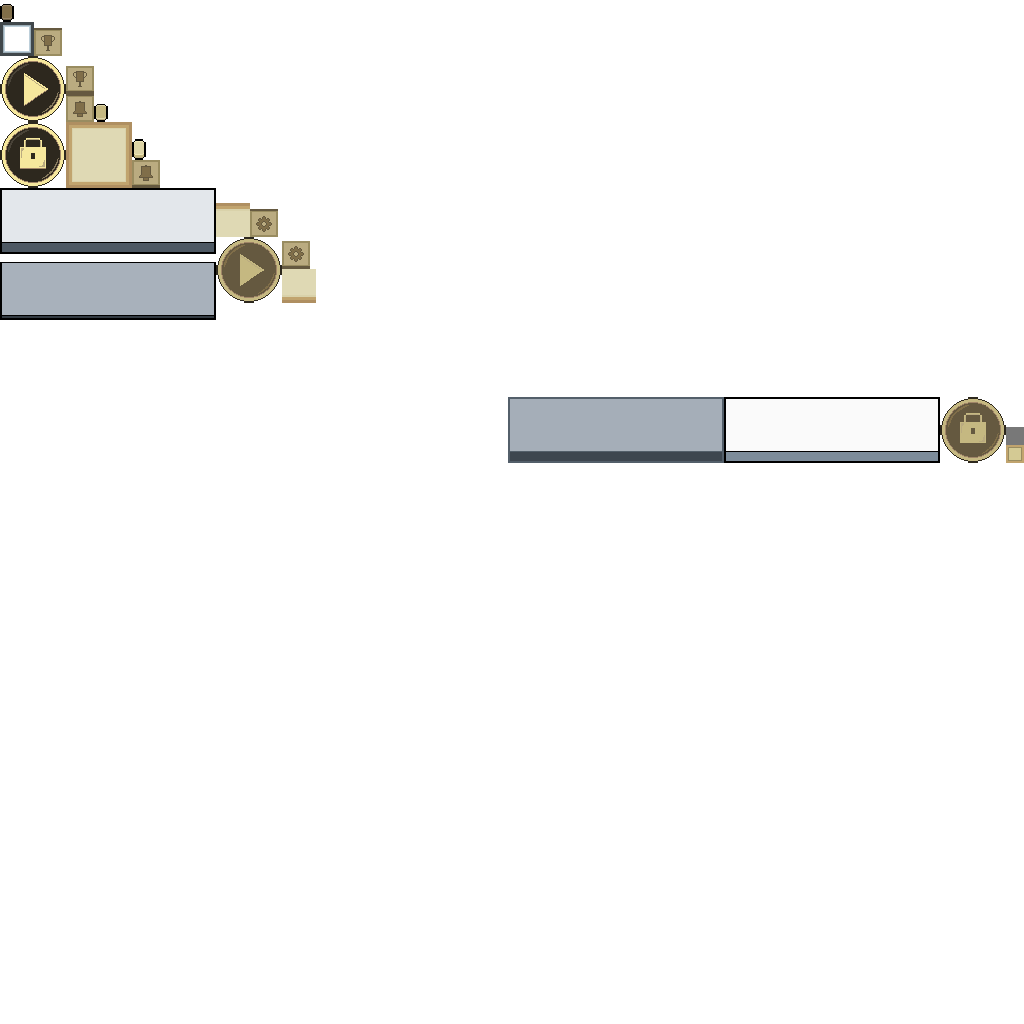
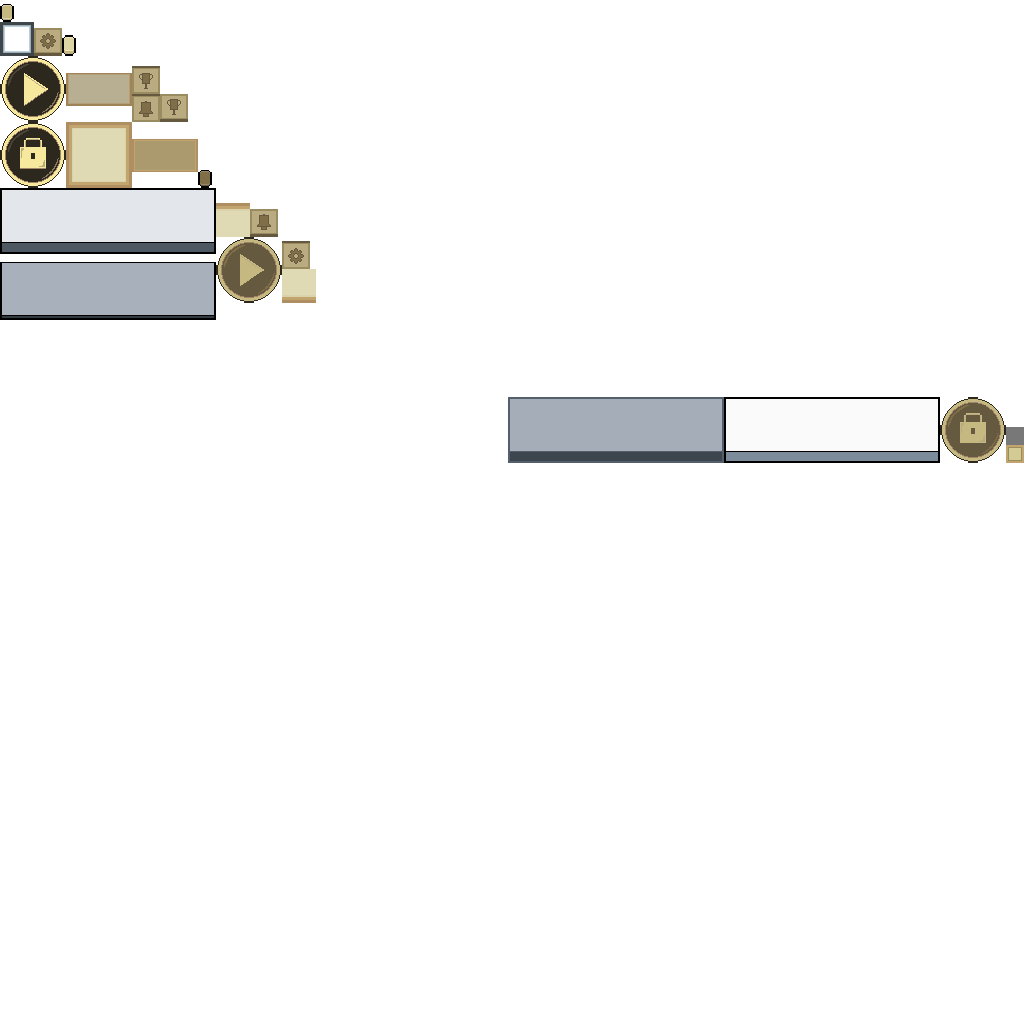
implementation of location ui - p1

Changed region(s): [[0.0312, 0.0312, 0.2188, 0.1875], [0.25, 0.1875, 0.3125, 0.2812], [0.0, 0.0, 0.0312, 0.0312]]

diff --git a/core/src/main/java/io/trunkcat/fullplate/screens/home/HomeScreen.java b/core/src/main/java/io/trunkcat/fullplate/screens/home/HomeScreen.java
@@ -43,6 +43,10 @@ import com.badlogic.gdx.scenes.scene2d.utils.ChangeListener;
 import com.badlogic.gdx.utils.Align;
 import com.badlogic.gdx.utils.viewport.FitViewport;
 
+import org.w3c.dom.Text;
+
+import java.util.Locale;
+
 import io.trunkcat.fullplate.CookGame;
 import io.trunkcat.fullplate.entities.PlaceData;
 
@@ -83,6 +87,9 @@ public class HomeScreen implements com.badlogic.gdx.Screen {
                 PlaceData.PlaceType.RESTAURANT,
                 "Burger Place",
                 "A place for burgers",
+                "Burger info",
+                null,
+                0,
                 false,
                 new Vector2(2000, 400)
             ),
@@ -91,8 +98,22 @@ public class HomeScreen implements com.badlogic.gdx.Screen {
                 PlaceData.PlaceType.RESTAURANT,
                 "Noodle stand",
                 "Craving for noodles? You got it!",
+                "Noodles info",
+                1000,
+                1,
                 true,
                 new Vector2(1500, 700)
+            ),
+            new PlaceData(
+                "pizza=place",
+                PlaceData.PlaceType.RESTAURANT,
+                "Pizza Place",
+                "Dem Pizzas!!!",
+                "Pizza info",
+                2000,
+                15,
+                true,
+                new Vector2(1750, 1000)
             )
         };
 
@@ -242,11 +263,7 @@ public class HomeScreen implements com.badlogic.gdx.Screen {
                     content.defaults().pad(10).fillX();
 
                     Label heading = new Label(placeData.getName(), game.skin, "h1");
-                    Label description = new Label(placeData.getDescription(), game.skin, "h2");
-
                     content.add(heading).expandX().left();
-                    content.row();
-                    content.add(description).expandX().left();
                     content.row();
 
                     TextButton closeButton = new TextButton("Close", game.skin);
@@ -256,7 +273,53 @@ public class HomeScreen implements com.badlogic.gdx.Screen {
                             window.remove();
                         }
                     });
-                    content.add(closeButton);
+
+                    TextButton buyButton = new TextButton("Buy", game.skin);
+                    buyButton.addListener(new ChangeListener() {
+                        private boolean errorLabelAdded = false;
+                        @Override
+                        public void changed(ChangeEvent event, Actor actor) {
+                            int playerMoney = game.player.data.getStats().getCoins();
+                            if(playerMoney >= placeData.getCost()) {
+                                placeData.setLocked(false);
+                                setStyle(game.skin.get("place-play-button", ButtonStyle.class));
+                                game.player.data.getStats().setCoins(playerMoney-placeData.getCost());
+                                hudStage.clear();
+                                setupHUD();
+                                window.remove();
+                            } else {
+                                if(!errorLabelAdded) {
+                                    Label neededMoney = new Label("You need $" + (int)(placeData.getCost() - playerMoney) + "!", game.skin, "h1");
+                                    content.add(neededMoney).expandX().uniform();
+                                    content.row();
+                                    errorLabelAdded = true;
+                                }
+                            }
+                        }
+                    });
+
+
+                    if(placeData.getCost() != null && placeData.isLocked()) {
+                        Label info = new Label(placeData.getInfo(), game.skin, "h2");
+                        content.add(info).expandX().left();
+                        content.row();
+                        Label cost = new Label("$ " + placeData.getCost().toString(), game.skin, "h1");
+                        content.add(cost).expandX().center();
+                        content.row();
+                        content.add(closeButton).expandX().left().uniform();
+                        content.add(buyButton).fillX().uniform();
+                        content.row();
+                    } else {
+                        //TODO : Get Play button and its window working
+                        Label description = new Label(placeData.getDescription(), game.skin, "h2");
+                        content.add(description).expandX().left();
+                        content.row();
+                        content.add(closeButton).expandX().left();
+                        content.row();
+                    }
+
+
+                    //content.add(closeButton);
 
                     setWindowContent(window, content);
                     hudStage.addActor(window);

diff --git a/core/src/main/java/io/trunkcat/fullplate/CookGame.java b/core/src/main/java/io/trunkcat/fullplate/CookGame.java
@@ -30,9 +30,12 @@ import com.badlogic.gdx.utils.viewport.ScreenViewport;
 import com.badlogic.gdx.utils.viewport.Viewport;
 
 import io.trunkcat.fullplate.entities.Player;
+import io.trunkcat.fullplate.models.PlayerData;
+import io.trunkcat.fullplate.models.responses.PlayerStats;
 import io.trunkcat.fullplate.network.HTTPClient;
 import io.trunkcat.fullplate.screens.LoadingScreen;
 import io.trunkcat.fullplate.screens.LoginScreen;
+import io.trunkcat.fullplate.screens.home.HomeScreen;
 import io.trunkcat.fullplate.utilities.Constants;
 import io.trunkcat.fullplate.utilities.GameFont;
 
@@ -54,13 +57,17 @@ public class CookGame extends Game {
         preferences = Gdx.app.getPreferences("Full plate Preferences");
         skin = new Skin(Gdx.files.internal("cook-skin/0.5/skin.json"));
 
-        String sessionToken = preferences.getString(Constants.PREF_KEY_SESSION_TOKEN);
-        if (sessionToken != null && !sessionToken.isEmpty()) {
-            httpClient.setAuthSessionToken(sessionToken);
-            setScreen(new LoadingScreen());
-        } else {
-            setScreen(new LoginScreen());
-        }
+        PlayerStats stats = new PlayerStats(69, 2500, 2000);
+        player.data = new PlayerData(12, "swassy", stats);
+        setScreen(new HomeScreen());
+
+//        String sessionToken = preferences.getString(Constants.PREF_KEY_SESSION_TOKEN);
+//        if (sessionToken != null && !sessionToken.isEmpty()) {
+//            httpClient.setAuthSessionToken(sessionToken);
+//            setScreen(new LoadingScreen());
+//        } else {
+//            setScreen(new LoginScreen());
+//        }
     }
 
     public static CookGame getInstance() {

diff --git a/core/src/main/java/io/trunkcat/fullplate/entities/PlaceData.java b/core/src/main/java/io/trunkcat/fullplate/entities/PlaceData.java
@@ -29,7 +29,10 @@ public class PlaceData {
     private PlaceType type;
     private String name;
     private String description;
+    private String info;
+    private Integer cost;
 
+    private int requiredLevel;
     private boolean locked;
     private Vector2 position;
 
@@ -38,11 +41,22 @@ public class PlaceData {
         EVENT
     }
 
-    public PlaceData(String id, PlaceType type, String name, String description, boolean locked, Vector2 position) {
+    public PlaceData(String id,
+                     PlaceType type,
+                     String name,
+                     String description,
+                     String info,
+                     Integer cost,
+                     int requiredLevel,
+                     boolean locked,
+                     Vector2 position) {
         this.id = id;
         this.type = type;
         this.name = name;
         this.description = description;
+        this.info = info;
+        this.cost = cost;
+        this.requiredLevel = requiredLevel;
         this.locked = locked;
         this.position = position;
     }
@@ -78,6 +92,10 @@ public class PlaceData {
     public void setDescription(String description) {
         this.description = description;
     }
+
+    public String getInfo() { return info; }
+
+    public Integer getCost() { return cost; }
 
     public boolean isLocked() {
         return locked;

diff --git a/core/src/main/java/io/trunkcat/fullplate/models/responses/PlayerStats.java b/core/src/main/java/io/trunkcat/fullplate/models/responses/PlayerStats.java
@@ -26,6 +26,14 @@ public class PlayerStats {
     private int playerLevel;
     private int coins;
     private int experiencePoints;
+    public PlayerStats() {
+    }
+
+    public PlayerStats(int playerLevel, int coins, int experiencePoints) {
+        this.playerLevel = playerLevel;
+        this.coins = coins;
+        this.experiencePoints = experiencePoints;
+    }
 
     public int getPlayerLevel() {
         return playerLevel;
@@ -34,6 +42,8 @@ public class PlayerStats {
     public int getCoins() {
         return coins;
     }
+
+    public void setCoins(int coins) { this.coins = coins; }
 
     public int getExperiencePoints() {
         return experiencePoints;

diff --git a/core/src/main/java/io/trunkcat/fullplate/models/PlayerData.java b/core/src/main/java/io/trunkcat/fullplate/models/PlayerData.java
@@ -28,6 +28,15 @@ public class PlayerData {
     private int id;
     private String username;
     private PlayerStats stats;
+    public PlayerData() {
+
+    }
+
+    public PlayerData(int id, String username, PlayerStats stats) {
+        this.id = id;
+        this.username = username;
+        this.stats = stats;
+    }
 
     public int getId() {
         return id;
@@ -40,4 +49,6 @@ public class PlayerData {
     public PlayerStats getStats() {
         return stats;
     }
+
+
 }
